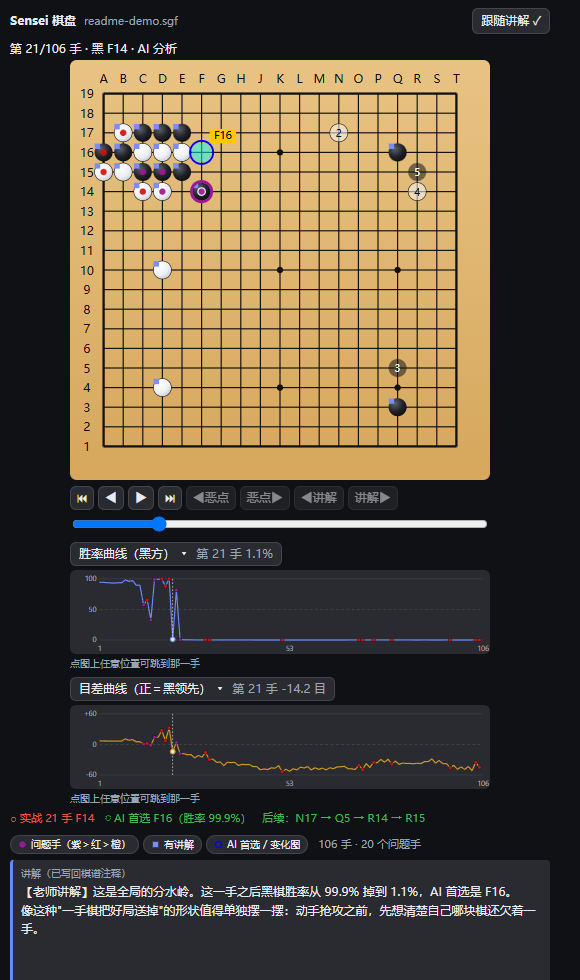
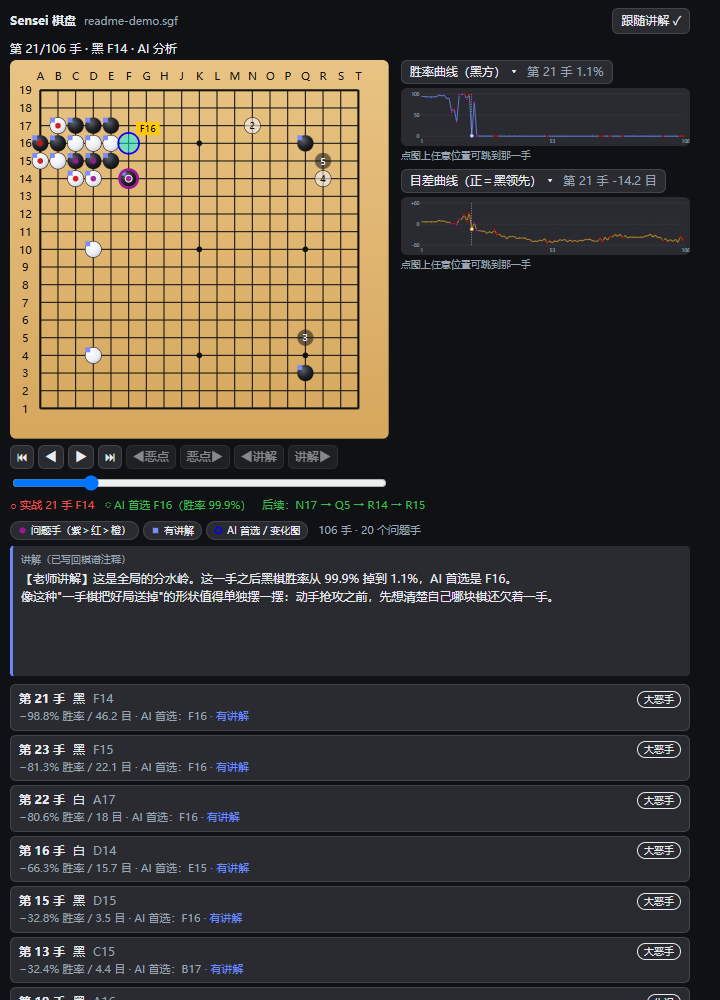
feat: 右侧栏文档预览改双列（左棋盘+控件、右曲线），并修热重载后样式不刷新
- .dgs-doc-inner 改 flex 折行：左列棋盘 + 控件条、右列两条可折叠曲线（列宽 2:1，侧栏窄于 430px 自动折回单列）；不再用 100vh - 560px 猜侧栏高度（侧栏高度 != 窗口高度，实测把棋盘压到 280px 下限、曲线还压在棋盘下方）

- ensureStyles() 见到已有 <style> 时比对并覆盖 textContent：客户端插件走热重载、模块重跑但旧 <style> 不消失，只判「存在就 return」会让纯 CSS 改动永远不生效（用户报「右侧栏我实际看没变呀」的元凶之一）

- 测试 219 -> 220：新增热重载样式刷新用例、右列与棋盘分列的 DOM 结构断言、CSS 规则断言

- README 右侧栏段落与 docs/images/doc.png 按新排版更新；优化总结补两条坑

diff --git a/client.js b/client.js
@@ -143,12 +143,14 @@ window.__ModuleLoader__.load({
       '[data-dgs] .dgs-doc-head { display: flex; align-items: center; gap: 8px; }',
       '[data-dgs] .dgs-doc-head .dgs-spacer { flex: 1; }',
       '[data-dgs] .dgs-doc-status { font-size: 12px; margin: 6px 0 2px; }',
-      // 棋盘与控件同宽同中：两侧各自居中会让控件看起来"偏了"。
-      // 宽度同样守高度算式：右侧栏没有整页那么宽，但曲线、状态行、图例与讲解都在这
-      // 一列里，开销比整页更大（约 560px），所以减得更多 —— 900px 高的窗口下棋盘
-      // 收到 ~340px，讲解框才留在屏幕里。
-      '[data-dgs] .dgs-doc-inner { width: 100%; max-width: min(480px, max(280px, 100vh - 560px)); margin: 0 auto; }',
+      // 右侧栏文档预览＝左列「棋盘 + 控件条」、右列「两条曲线」，与整页同一套分工。
+      // 别再拿 100vh 猜侧栏高度（侧栏高度≠窗口高度，实测会把棋盘压到 280px 下限，
+      // 曲线还照样压在棋盘下方）。改成 flex 折行：够宽就并排，侧栏拖窄了自动回单列。
+      '[data-dgs] .dgs-doc-inner { display: flex; flex-wrap: wrap; justify-content: center;',
+      '  align-items: flex-start; gap: 10px 12px; width: 100%; }',
+      '[data-dgs] .dgs-doc-main { flex: 2 1 320px; max-width: 480px; min-width: 0; }',
       '[data-dgs] .dgs-doc-board { width: 100%; margin: 0 auto; }',
+      '[data-dgs] .dgs-doc-inner .dgs-curves { flex: 1 1 260px; max-width: 380px; min-width: 0; margin-top: 0; }',
       '[data-dgs] .dgs-doc-list { max-height: none; }',
       // 图例 + 手数小结 + 讲解自成一块：右侧栏很窄，讲解至少要有一整行高度，
       // 不能夹在图例和列表之间被压成一条缝（与整页 .dgs-page-foot 同一套做法）
@@ -156,11 +158,22 @@ window.__ModuleLoader__.load({
       '[data-dgs] .dgs-doc-foot .dgs-comment { min-height: 118px; max-height: 260px; }',
     ].join('\n')
 
-    /** 注入样式（幂等；只插一次，避免重复注册时堆积）。 */
+    /**
+     * 注入样式（幂等；只插一次，避免重复注册时堆积）。
+     *
+     * 已存在时**必须比对并覆盖**：客户端插件改动走热重载，模块会重新执行，
+     * 但上一次插进 <head> 的 <style> 不会消失 —— 只判「存在就 return」的话，
+     * 纯 CSS 改动（不改 DOM 结构的那种）在热重载后永远不生效，表现为
+     * 「代码明明改了、界面一点没变」（2026-09-14 实测踩到）。
+     */
     function ensureStyles() {
       try {
-        if (document.getElementById(STYLE_ID) !== null) return
-        var style = document.createElement('style')
+        var style = document.getElementById(STYLE_ID)
+        if (style !== null) {
+          if (style.textContent !== CSS) style.textContent = CSS
+          return
+        }
+        style = document.createElement('style')
         style.id = STYLE_ID
         style.textContent = CSS
         document.head.appendChild(style)
@@ -2057,9 +2070,9 @@ window.__ModuleLoader__.load({
         kids.push(React.createElement('div', { className: 'dgs-doc-status', key: 's' },
           boardStatusText(board, cur, curMove),
           data.mode === 'analysis' ? ' · AI 分析' : ' · 纯棋理'))
-        // 棋盘与控件放进同一个居中容器：右侧栏比面板宽，两边各自居中会让
-        // 控件与棋盘对不齐（用户报的「控件有偏移」）
-        var inner = [
+        // 左列＝棋盘 + 控件条（同宽同中：两边各自居中会让控件与棋盘对不齐，
+        // 用户报过「控件有偏移」）。曲线是右列，见下面的 .dgs-doc-inner 组装。
+        var main = [
           React.createElement('div', { className: 'dgs-doc-board', key: 'bd' },
             renderBoard({
               board: board,
@@ -2105,9 +2118,11 @@ window.__ModuleLoader__.load({
             type: 'range', min: 0, max: total, value: cur,
             onChange: function (event) { setUpto(Number(event.target.value)) },
           }))
-        inner.push(ctl)
-        // 胜率 / 目差曲线（可折叠）：右侧栏比对话面板宽，曲线看得更清楚
+        main.push(ctl)
+        // 胜率 / 目差曲线（可折叠）＝右列：右侧栏够宽就与棋盘并排，
+        // 拖窄了自动折回棋盘下方（用户 2026-09-14 选的方案 A）
         var docCurves = curvesView(data, cur, function (n) { setUpto(n) })
+        var inner = [React.createElement('div', { className: 'dgs-doc-main', key: 'main' }, main)]
         if (docCurves !== null) inner.push(docCurves)
         kids.push(React.createElement('div', { className: 'dgs-doc-inner', key: 'inner' }, inner))
         // AI 首选与变化图：问题手要说，讲解点（未必是问题手）同样要说

diff --git a/docs/优化总结.md b/docs/优化总结.md
@@ -58,14 +58,16 @@
 
 ## 六、排版：讲解必须留在屏内
 
-这是用户这次最硬的要求。做法是**让棋盘宽度跟着视口高度走**，而不是给棋盘一个固定尺寸：
+这是用户这次最硬的要求。左侧栏整页的做法是**让棋盘宽度跟着视口高度走**，而不是给棋盘一个固定尺寸：
 
 | 视图 | 棋盘宽度 | 讲解框 |
 |---|---|---|
 | 左侧栏整页 | `min(760px, max(340px, 100vh - 340px))` | `min-height: 118px`，`max-height: 240px` |
-| 右侧栏文档 | `min(480px, max(280px, 100vh - 560px))` | `min-height: 118px`，`max-height: 260px` |
+| 右侧栏文档 | 左列 `flex: 2 1 320px`（上限 480px） | `min-height: 118px`，`max-height: 260px` |
 
-减掉的那部分是页头 / 控件条 / 状态行 / 图例 / 讲解本身的固定开销；右侧栏减得更多，因为那一列里还挤着两条曲线。窗口矮时棋盘自己收，但**保底 340px / 280px**，不会缩到看不清。整页在 `max-width: 860px` 时退回单列并把棋盘居中。讲解、图例、手数小结在底部合成一块（`.dgs-page-foot` / `.dgs-doc-foot`），不再和问题手列表抢高度。
+减掉的那部分是页头 / 控件条 / 状态行 / 图例 / 讲解本身的固定开销；窗口矮时棋盘自己收，但**保底 340px**，不会缩到看不清。整页在 `max-width: 860px` 时退回单列并把棋盘居中。讲解、图例、手数小结在底部合成一块（`.dgs-page-foot` / `.dgs-doc-foot`），不再和问题手列表抢高度。
+
+**右侧栏走的不是这条算式**（2026-09-14 修正）：**侧栏高度 ≠ 窗口高度**，第一版拿 `100vh - 560px` 去猜，在 807px 高的窗口里恰好撞上 280px 下限 —— 棋盘被压小，曲线却照旧堆在棋盘下方，讲解的"位置"是拿棋盘尺寸换来的，用户看一眼就说「没变」。现在右侧栏与整页同一套分工：左列棋盘 + 控件条、右列两条可折叠曲线（`.dgs-doc-inner` 用 `display:flex; flex-wrap:wrap`，两列宽度比例 `2:1`，`justify-content:center`），侧栏拖到 430px 以下曲线自动折回棋盘下方；讲解靠**列宽预算**留在屏内，而不是靠窗口高度。
 
 ## 七、怎么验收的
 
@@ -86,10 +88,12 @@
 | 右侧栏文档截图永远是空壳 | 文档正文在 effect 里 fetch，且 effect 每次运行都 `setData(null)` | 顺序是 render → await → render，**拿到第二次的树立刻截图**，再渲染一次就空了 |
 | 中文注释全变乱码 + BOM | 用 PowerShell 的 `Get-Content -Raw \| Set-Content -Encoding utf8` 改 UTF-8 源码 | 改文件一律用编辑工具（这条记忆里早写过，还是犯了） |
 | 配图里三角形压在编号「1」上 | 同一个点既编号又标三角形 | 让三角形标 AI 首选、编号从后续应接开始 |
+| **改了 CSS，界面一点没变**（用户报「右侧栏我实际看没变呀」） | `ensureStyles()` 见 `<style id=…>` 已存在就 `return`。客户端插件是**热重载**：模块重跑，但上一次插进 `<head>` 的 `<style>` 不会消失，于是新 CSS 永远不生效 —— 除非手动刷新页面 | 注入样式必须**比对 textContent 并覆盖**；判定"新代码在不在跑"要看 DOM 结构（如 `.dgs-doc-main` 是否出现），**不能只看界面** |
+| 侧栏棋盘小得没道理、曲线还压在棋盘下方 | 用 `100vh - 560px` 猜侧栏高度（侧栏高度 ≠ 窗口高度），恰好撞上 280px 下限 | 侧栏用 flex 折行 + 列宽比例，别用视口高度换算 |
 
 ## 九、还没做的
 
-- **发版**：`package.json` 仍是 0.2.2，本轮四个提交尚未 push、未打 tag、未建 Release（步骤见 README「开发与发布」）。
+- **发版**：`package.json` 仍是 0.2.2，本轮 6 个提交尚未 push、未打 tag、未建 Release（步骤见 README「开发与发布」）。
 - 曲线的**缩放 / 区间选择**（现在只有整盘 + 点击定位），以及"只看某一段"时曲线是否跟着截断，都还没做。
 - 列表样式已经分叉：整页用 `.dgs-page-list` / `.dgs-page-item`，右侧栏文档仍用 `.dgs-list` / `.dgs-item`（面板那一份已经删掉）。两边可以合并成一套。
 - 面板的**曲线高度**是写死的 96px，窗口很窄时两条曲线会把面板撑得比输入框还高，还没做自适应。

diff --git a/README.md b/README.md
@@ -494,10 +494,11 @@ Web 页面**输入框下方**有一行折叠面板「**DeepGo Sensei**」：
 
 插件的第二个落点是**原生右侧栏**：为 `.sgf` 注册了一个文档预览实现（客户端 `ctx.documentPreviews`），所以在对话里点文件的「**打开**」、或从文件列表点开 `.sgf`，棋盘就出现在右侧栏 —— **对话留在左边，两边互不遮挡**。
 
-![右侧栏 .sgf 文档预览：棋盘、控件、两条曲线，最底下是图例与讲解](docs/images/doc.png)
+![右侧栏 .sgf 文档预览：左列棋盘与控件条、右列两条曲线，下面是图例与讲解](docs/images/doc.png)
 
-- 右侧栏是一列：棋盘在上，往下是控件条、两条曲线，最底下是**图例 + 「N 手 · M 个问题手」+ 讲解框** —— 讲解单独占一块（翻到哪手读哪手；这一手还没写回讲解时给一行提示），问题手列表就在这一列里继续往下滚。同样带 `⏮ ◀ ▶ ⏭` + `◀恶点/恶点▶` + 滑块；点某一行会跳到那一手并把追问语**复制到剪贴板**（右侧栏没有输入框，只能复制）。
-- 侧栏窄、又要在同一列里塞下曲线，所以棋盘的宽度跟着窗口高度走：**窗口矮的时候棋盘自己收一点，讲解始终留在屏内**。
+- 右侧栏分两列：**左列＝棋盘 + 控件条**（棋盘在上，`⏮ ◀ ▶ ⏭`、`◀恶点/恶点▶`、`◀讲解/讲解▶` 与滑块贴在棋盘下沿），**右列＝两条可折叠曲线**；再往下是「实战 / AI 首选 / 后续」一行、**图例 + 「N 手 · M 个问题手」+ 讲解框**（讲解单独占一块，翻到哪手读哪手；这一手还没写回讲解时给一行提示），最后是问题手列表，跟着这一列继续往下滚。点某一行会跳到那一手并把追问语**复制到剪贴板**（右侧栏没有输入框，只能复制）。
+- 侧栏宽度可以拖，布局跟着走：够宽就左右并排（实测 700px 宽的侧栏下棋盘约 380px），**拖窄到 430px 以下曲线自动折回棋盘下方**，不会把棋盘挤成一条缝。
+- 列宽不会再拿窗口高度去猜：早先用 `100vh - 560px` 收棋盘，实测在 807px 高的窗口里把棋盘一路压到 280px 下限，而曲线仍堆在棋盘下方 —— 讲解的"位置"是拿棋盘尺寸换来的。现在改成 flex 折行 + 列宽上限，讲解靠列宽预算留在屏内。
 - 「跟随讲解」在这里同样有效：你在左边听讲，右边棋盘自己跟到 Sensei 正在讲的那一手。
 - 如果侧栏之前记住了用「纯文本」看这类文件，在右侧栏顶部的查看器选择里切到「Sensei 棋盘」一次即可，之后默认用它。
 - 文档标签页给的是**会话内相对路径**，所以插件会把会话 id 一并带给宿主，由宿主反查该会话的工作区根来定位文件（这样刚重启、还没调用过任何 `go_*` 工具时也能直接打开）。
